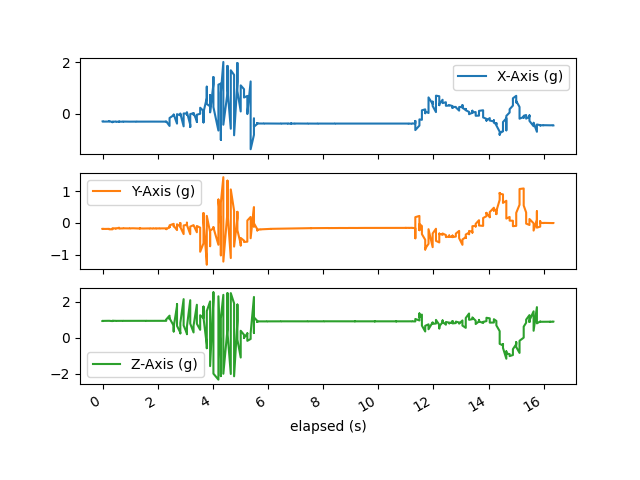
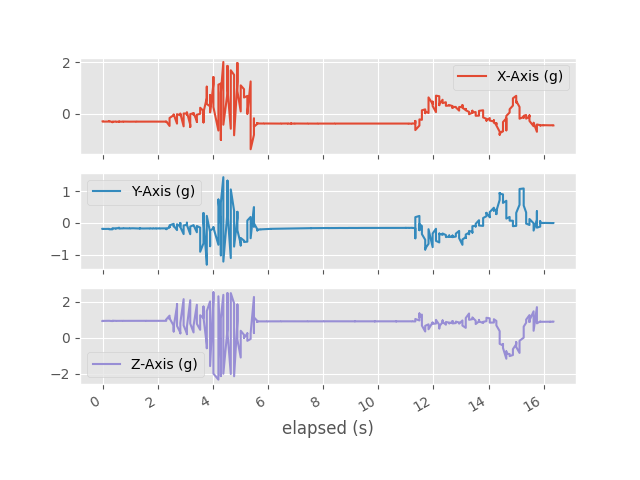
changed plot style to ggplot

diff --git a/Visualization/mbientVis.py b/Visualization/mbientVis.py
@@ -1,6 +1,6 @@
 import pandas as pd
 import matplotlib.pyplot as plt
-
+plt.style.use('ggplot')
 '''Notes
 With more datasets, will eventually will want to address arrays/looping.
 --essentially reducing code duplication.
